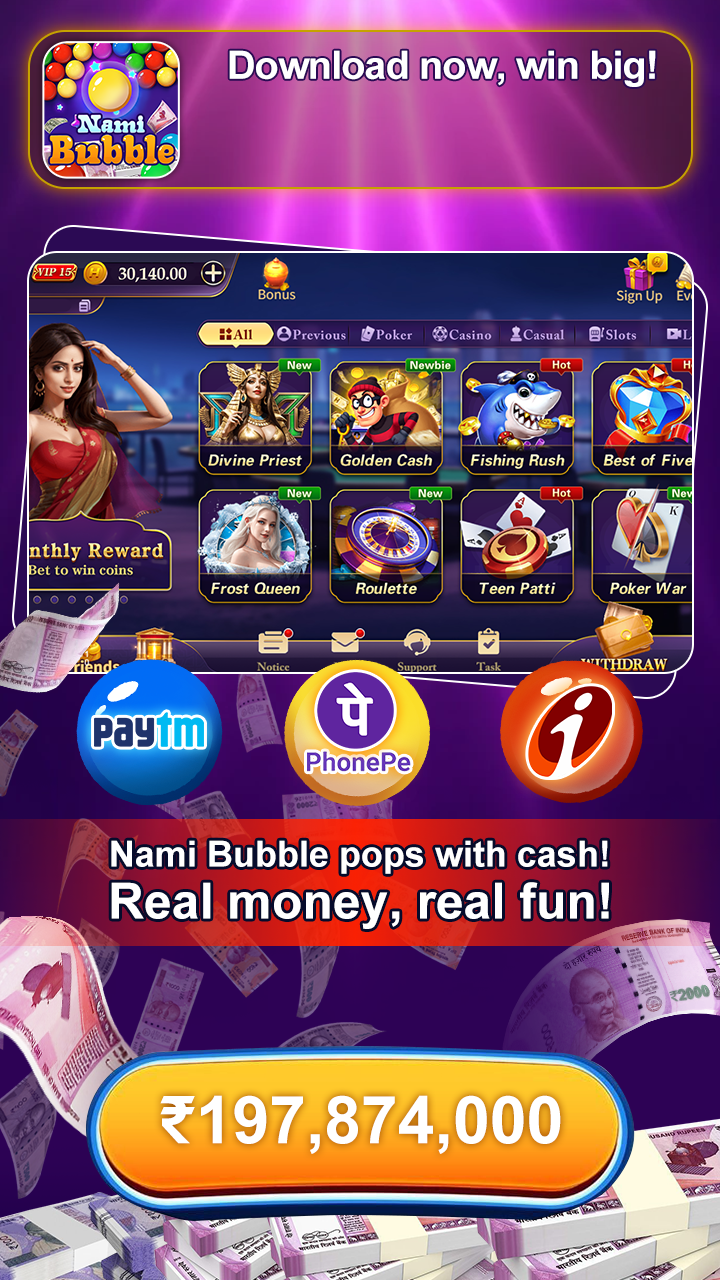
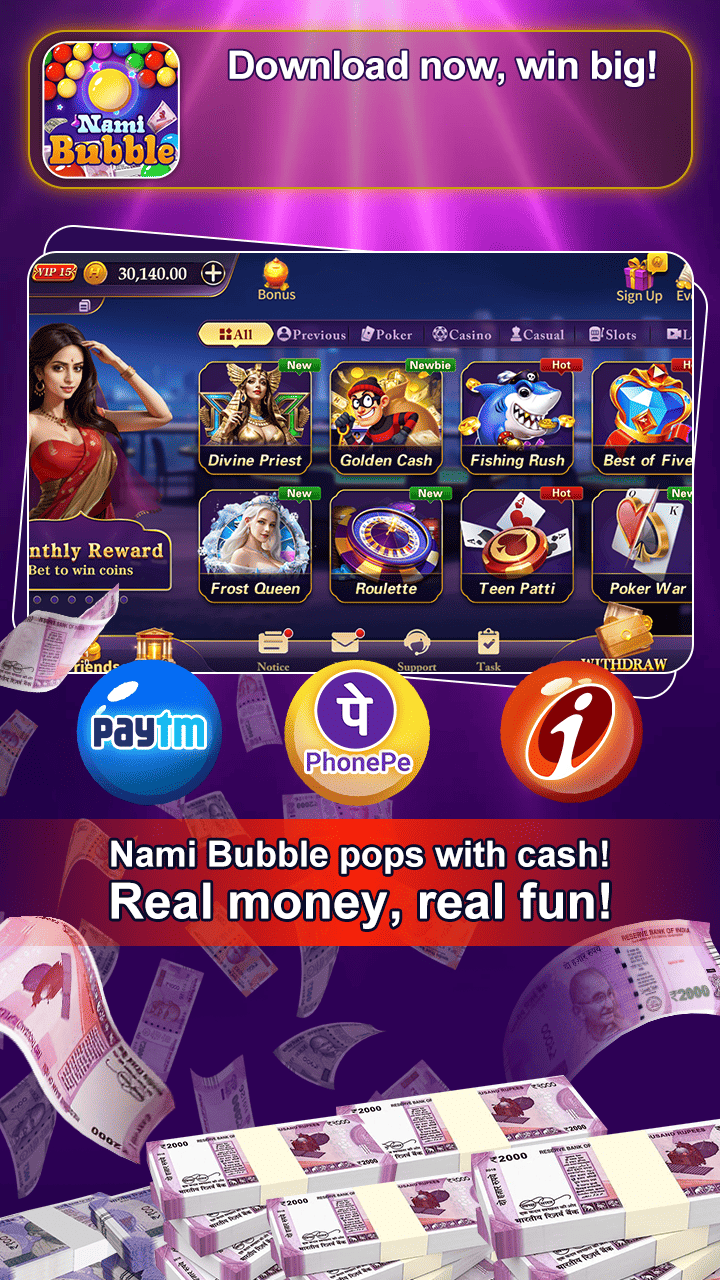
b页增加下载按钮

diff --git a/src/components/Google.vue b/src/components/Google.vue
@@ -2,6 +2,7 @@
   <div class="main">
     <div class="bg-img-all">
       <div class="download-button-sty" @click="download_apk"></div>
+      <div class="btn-down" @click="download_apk"></div>
       <!-- <div class="finger"></div> -->
     </div>
     <div class="tele-banner" style="display: flex; align-items: center">
@@ -251,20 +252,33 @@ export default {
 }
 
 .bg-img-all {
-  display: flex;
   width: 100vw;
   height: 177.78vw;
   background-image: url("../../static/mobileb/bg.png");
   background-size: cover;
+  position: relative;
 }
 
 .download-button-sty {
-  display: flex;
-  margin-left: 31.94vw;
-  margin-top: 13.61vw;
+  position: absolute;
+  left: 31.94vw;
+  top: 13.61vw;
   width: 57.36vw;
   height: 10.14vw;
   background-image: url("../../static/mobileb/download.png");
+  background-size: cover;
+  animation-name: scaleDraw;
+  animation-timing-function: ease-in-out;
+  animation-iteration-count: infinite;
+  animation-duration: 1s;
+}
+.btn-down {
+  position: absolute;
+  left: 11.81vw;
+  top: 138.61vw;
+  width: 76.39vw;
+  height: 24.31vw;
+  background-image: url("../../static/mobileb/btn_down.png");
   background-size: cover;
   animation-name: scaleDraw;
   animation-timing-function: ease-in-out;
